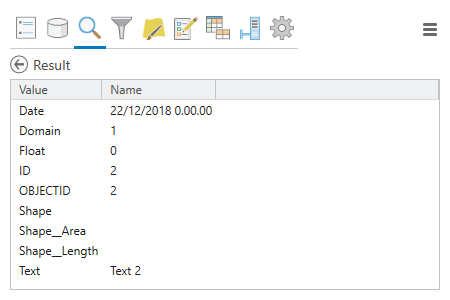
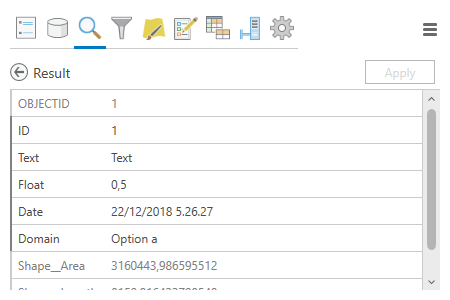
Use inspector control for search results

Changed region(s): [[0.0, 0.18, 0.9956, 0.93], [0.0311, 0.93, 0.9644, 0.99], [0.8089, 0.18, 0.9644, 0.21]]

diff --git a/src/QuickActions/Views/FindView.xaml b/src/QuickActions/Views/FindView.xaml
@@ -195,38 +195,27 @@
                 </Style>
             </DockPanel.Style>
 
-            <StackPanel
-                DockPanel.Dock="Top"
-                Orientation="Horizontal"
-                Margin="0,0,0,5"
-            >
+            <DockPanel DockPanel.Dock="Top">
                 <Button
+                    DockPanel.Dock="Left"
                     Style="{DynamicResource Esri_ButtonBackSmall}"
                     Margin="0,0,5,0"
                     Click="OnReturnToResults"
+                />
+                <Button
+                    DockPanel.Dock="Right"
+                    Style="{DynamicResource Esri_Button}"
+                    Content="Apply"
+                    IsEnabled="{Binding Inspector.IsDirty}"
+                    Click="OnApplyEdits"
                 />
                 <TextBlock
                     Style="{DynamicResource Esri_TextBlockDialog}"
                     VerticalAlignment="Center"
                     Text="Result"
                 />
-            </StackPanel>
-            <ListView ItemsSource="{Binding SelectedSearchResult.FieldValues}">
-                <ListView.View>
-                    <GridView>
-                        <GridView.Columns>
-                            <GridViewColumn
-                                    Header="Value"
-                                    DisplayMemberBinding="{Binding Key}"
-                                />
-                            <GridViewColumn
-                                    Header="Name"
-                                    DisplayMemberBinding="{Binding Value}"
-                                />
-                        </GridView.Columns>
-                    </GridView>
-                </ListView.View>
-            </ListView>
+            </DockPanel>
+            <ContentPresenter Content="{Binding InspectorView}" />
         </DockPanel>
     </Grid>
 </local:ViewBase>

diff --git a/src/QuickActions/Views/FindView.xaml.cs b/src/QuickActions/Views/FindView.xaml.cs
@@ -4,9 +4,11 @@ using System.Globalization;
 using System.Linq;
 using System.Threading.Tasks;
 using System.Windows;
+using System.Windows.Controls;
 using System.Windows.Input;
 
 using ArcGIS.Core.Data;
+using ArcGIS.Desktop.Editing.Attributes;
 using ArcGIS.Desktop.Framework.Threading.Tasks;
 using ArcGIS.Desktop.Mapping;
 
@@ -87,13 +89,24 @@ public partial class FindView : ViewBase
 		}
 	}
 
-	SearchResult _selectedSearchResult;
-	public SearchResult SelectedSearchResult
+	Inspector _inspector;
+	public Inspector Inspector
 	{
-		get => _selectedSearchResult;
+		get => _inspector;
 		set
 		{
-			_selectedSearchResult = value;
+			_inspector = value;
+			NotifyPropertyChanged();
+		}
+	}
+
+	UserControl _inspectorView;
+	public UserControl InspectorView
+	{
+		get => _inspectorView;
+		set
+		{
+			_inspectorView = value;
 			NotifyPropertyChanged();
 		}
 	}
@@ -189,16 +202,12 @@ public partial class FindView : ViewBase
 			whereClauseParts.Add($"({fieldSql} LIKE '%{formattedSearchTerm}%')");
 		}
 
-		//var subFields = searchFields.Select(field => field.Name).ToHashSet();
-		//subFields.Add(((IDisplayTable)MapMember).GetTable().GetDefinition().GetObjectIDField());
-
 		var whereClause = string.Join(" OR ", whereClauseParts);
 
-		var cursor = ((IDisplayTable)MapMember).Search(new()
+		var cursor = ((IDisplayTable)MapMember).GetTable().Search(new()
 		{
-			//SubFields = string.Join(", ", subFields),
 			WhereClause = whereClause
-		});
+		}, false);
 
 		var exactResults = new List<SearchResult>();
 		var partialResults = new List<SearchResult>();
@@ -304,18 +313,12 @@ public partial class FindView : ViewBase
 				.Distinct()
 				.ToList();
 
-			var fieldValues = row.GetFields()
-				.OrderBy(field => field.Name)
-				.Select(field => new KeyValuePair<string, object>(field.Name, row[field.Name]))
-				.ToList();
-
 			var result = new SearchResult
 			{
-				ObjectId = row.GetObjectID(),
+				Row = row,
 				MatchField = matchField.Name,
 				MatchValue = matchValue?.ToString(),
-				OtherMatchFields = otherMatchFields,
-				FieldValues = fieldValues
+				OtherMatchFields = otherMatchFields
 			};
 
 			if (hasExtactMatch)
@@ -348,15 +351,28 @@ public partial class FindView : ViewBase
 		var result = (SearchResult)((FrameworkElement)sender).DataContext;
 		QueuedTask.Run(() =>
 		{
-			MapView.Active.ZoomTo(layer, result.ObjectId);
-			MapView.Active.FlashFeature(layer, result.ObjectId);
+			var objectId = result.Row.GetObjectID();
+			MapView.Active.ZoomTo(layer, objectId);
+			MapView.Active.FlashFeature(layer, objectId);
 		});
 	}
 
 	private void OnShowResultAttributes(object sender, RoutedEventArgs e)
 	{
-		SelectedSearchResult = (SearchResult)((FrameworkElement)sender).DataContext;
 		ActiveView = View.Attributes;
+		var result = (SearchResult)((FrameworkElement)sender).DataContext;
+		QueuedTask.Run(() =>
+		{
+			var inspector = new Inspector { AllowEditing = ((IDisplayTable)MapMember).CanEditData() };
+			inspector.Load(result.Row);
+			new TaskFactory(QueuedTask.UIScheduler).StartNew(() =>
+			{
+				var (embeddableControl, inspectorView) = inspector.CreateEmbeddableControl();
+				embeddableControl.OpenAsync();
+				Inspector = inspector;
+				InspectorView = inspectorView;
+			});
+		});
 	}
 
 	private void OnSelectAllResults(object sender, RoutedEventArgs e)
@@ -384,13 +400,18 @@ public partial class FindView : ViewBase
 		ActiveView = View.Find;
 	}
 
+	private void OnApplyEdits(object sender, RoutedEventArgs e)
+	{
+		Inspector.ApplyAsync();
+	}
+
 	SelectionSet SearchResultsToSelectionSet(IEnumerable<SearchResult> results)
 	{
 		return SelectionSet.FromDictionary(new Dictionary<MapMember, IList<long>>
 		{
 			{
 				MapMember,
-				results.Select(result => result.ObjectId).ToList()
+				results.Select(result => result.Row.GetObjectID()).ToList()
 			}
 		});
 	}
@@ -404,11 +425,10 @@ public class SearchFieldOption
 
 public class SearchResult
 {
-	public long ObjectId { get; init; }
+	public Row Row { get; init; }
 	public string MatchField { get; init; }
 	public string MatchValue { get; init; }
 	public IReadOnlyCollection<string> OtherMatchFields { get; init; }
-	public IReadOnlyCollection<KeyValuePair<string, object>> FieldValues { get; init; }
 
 	public string MatchDescription => $"{MatchField}: {MatchValue}";
 	public string OtherMatchFieldsDescription

diff --git a/README.md b/README.md
@@ -24,7 +24,7 @@ Check the data source of the layer.
 
 ![Find](docs/tabs-find-2.png)
 
-Search for features. From the search result list, you can easily select the result features, zoom the map to them, or view their attributes.
+Search for features. From the search result list, you can easily select the result features, zoom the map to them, or view and edit their attributes.
 
 ### Filter
 
